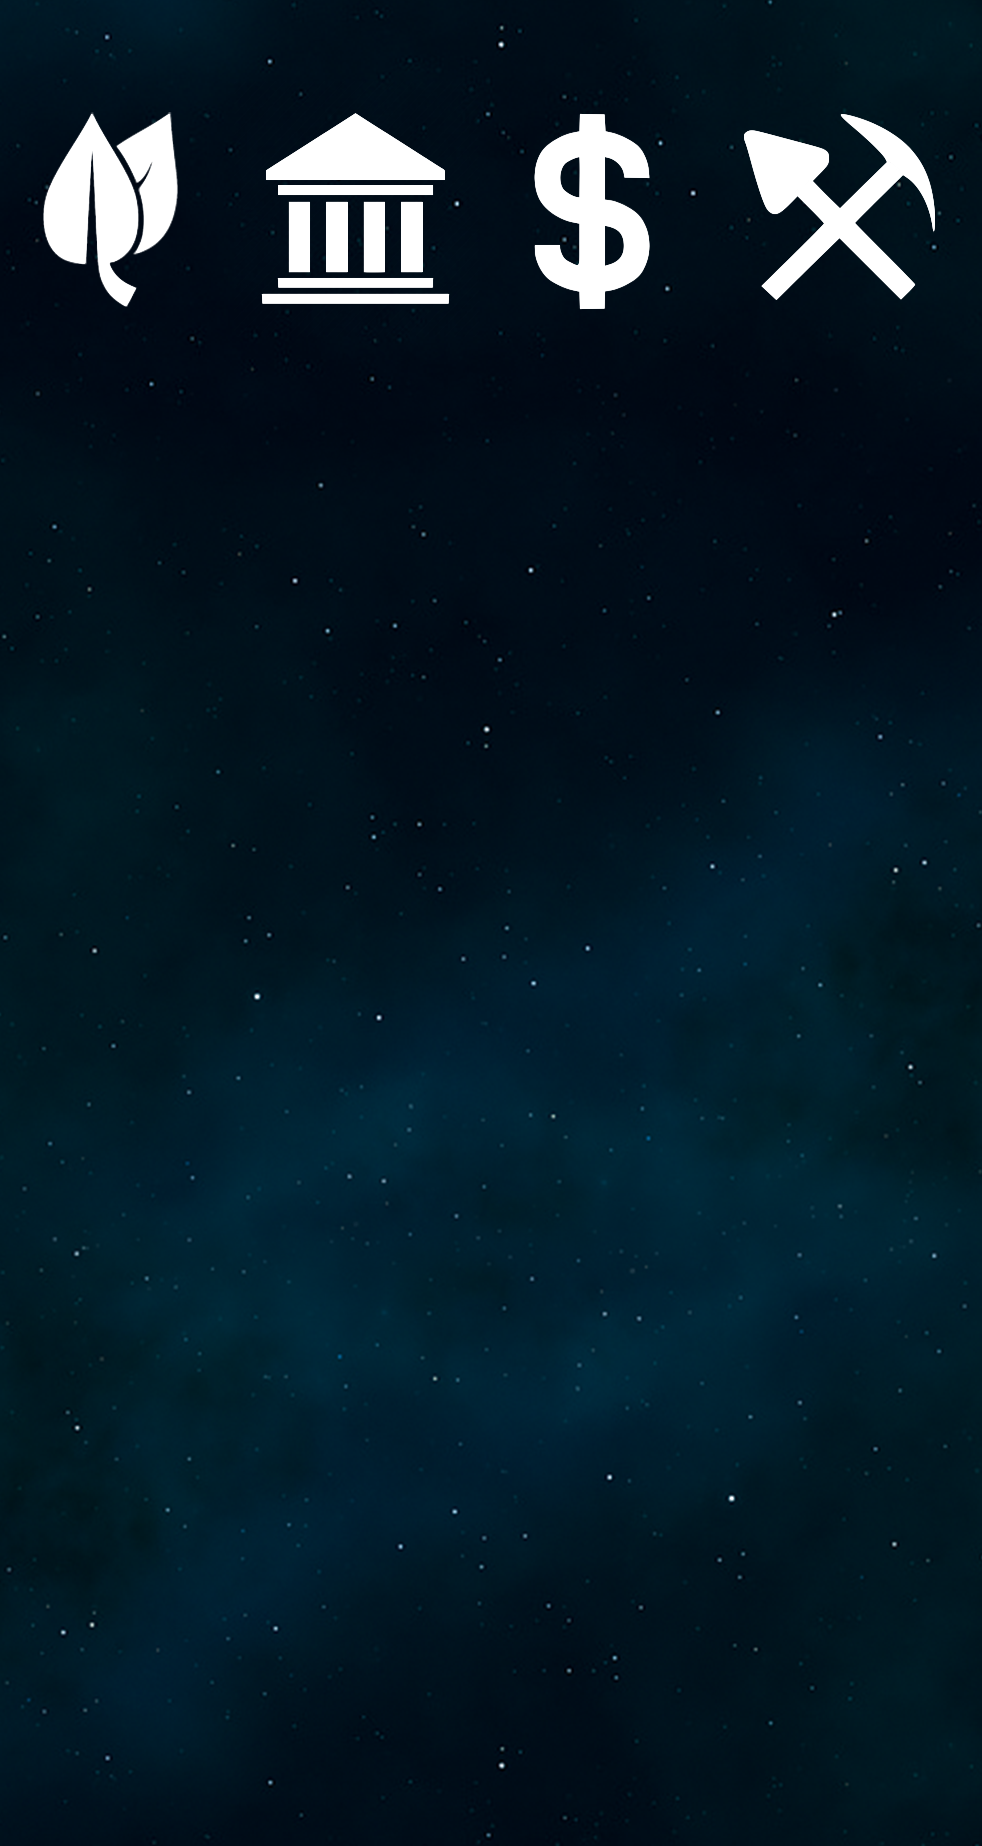
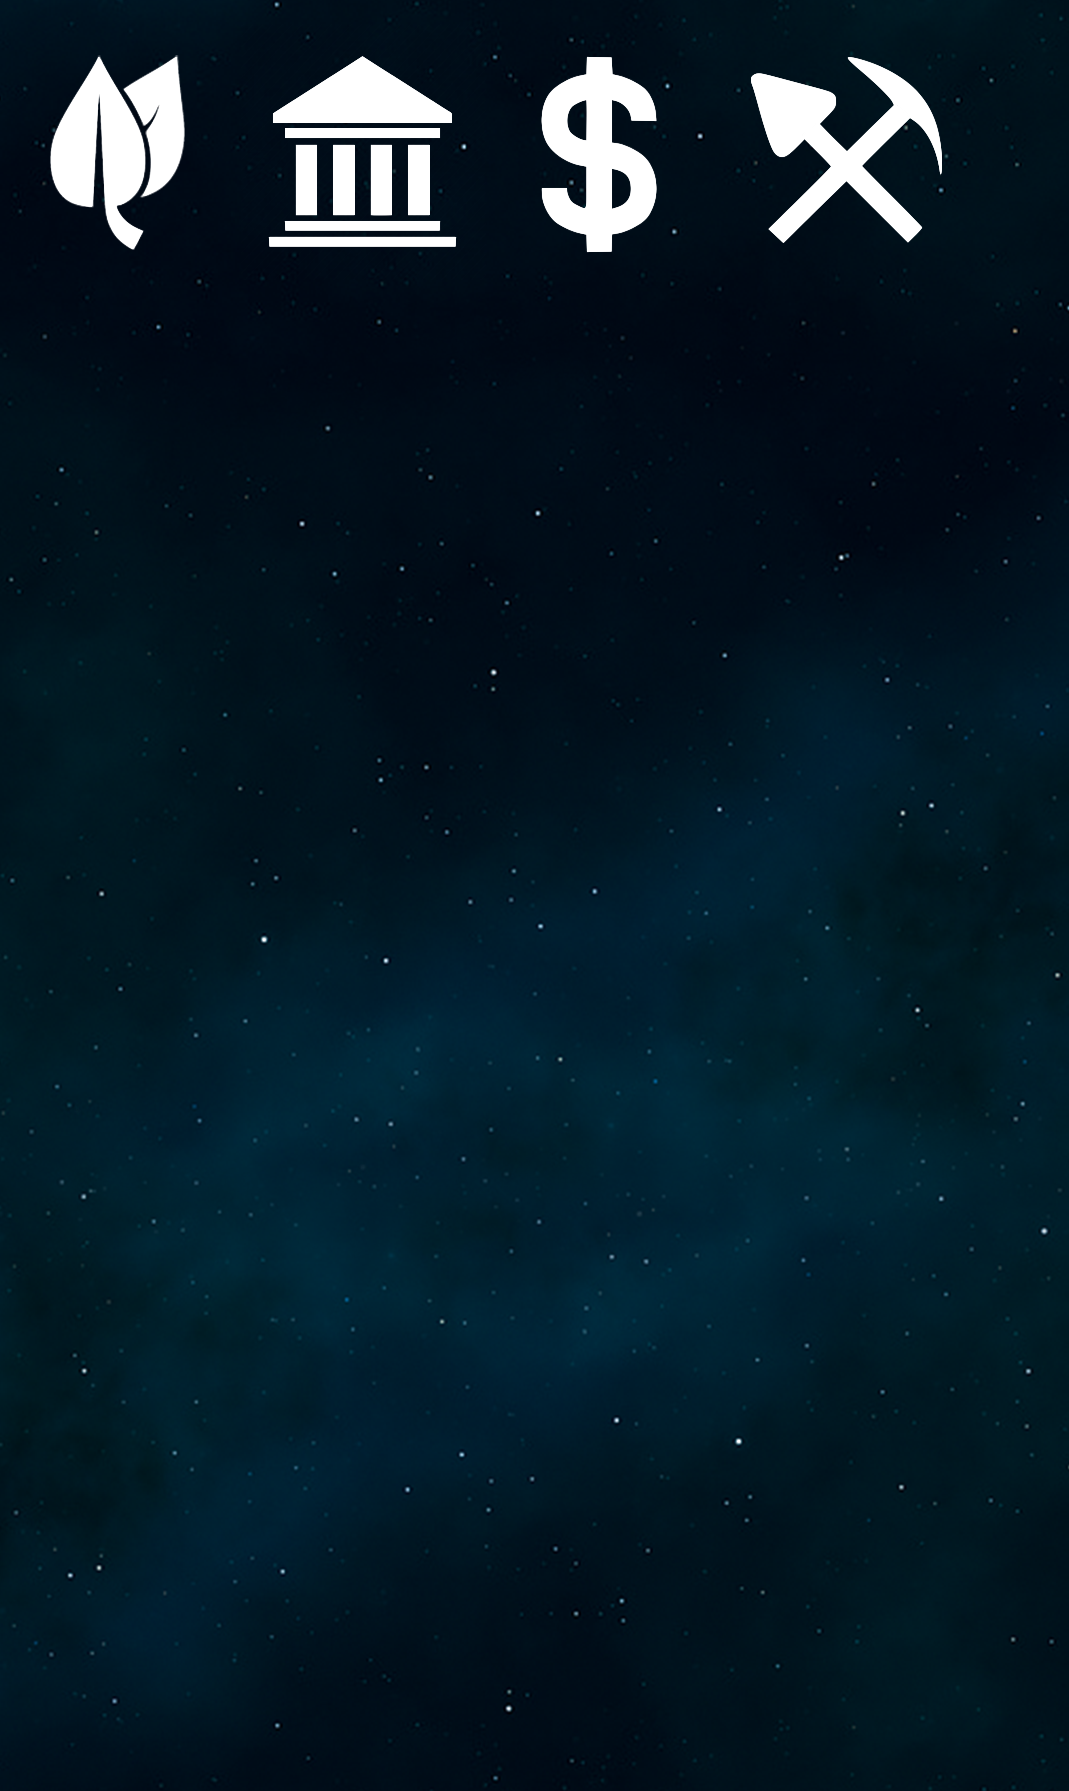
Modify size of background.png and add card.png

diff --git a/js/main.js b/js/main.js
@@ -4,7 +4,7 @@ class playGame extends Phaser.Scene {
     }
 
     preload() {
-        this.load.image("dog", "./assets/images/dog.png");
+        this.load.image("card", "./assets/images/card.png");
         this.load.image("earth", "./assets/images/earth.png");
         this.load.image("timeline", "./assets/images/timeline.png");
         this.load.image("background", "./assets/images/background.png");
@@ -22,7 +22,7 @@ class playGame extends Phaser.Scene {
         this.earth = this.add.image(game.config.width / 2 , this.canvasgame.height / 2, "earth");
         this.earth.displayWidth = this.canvasgame.width * 0.8;
         this.earth.displayHeight = this.earth.displayWidth;
-        this.player = this.add.image(game.config.width / 2, this.canvasgame.height / 2, "dog").setInteractive();
+        this.card = this.add.image(game.config.width / 2, this.canvasgame.height, "card").setInteractive();
         this.timeline = this.add.image(game.config.width / 2, this.canvasgame.height - 150, "timeline");
 
         this.star = this.add.image(150, this.canvasgame.height - 160, "star").setScale(.25);
@@ -46,21 +46,21 @@ class playGame extends Phaser.Scene {
         if(swipeMagnitude > 20 && swipeTime < 1000 && (Math.abs(swipeNormal.y) > 0.8 || Math.abs(swipeNormal.x) > 0.8)) {
             if(swipeNormal.x > 0.8) {
                 // right
-                $(this.player).animate({x: this.canvasgame.width, speed: "slow"});
+                $(this.card).animate({x: this.canvasgame.width, speed: "slow"});
                 this.moveStar();
             }
             if(swipeNormal.x < -0.8) {
                 // left
-                $(this.player).animate({x: 0});
+                $(this.card).animate({x: 0});
                 this.moveStar();
             }
             if(swipeNormal.y > 0.8) {
                 // down
-                $(this.player).animate({y: this.canvasgame.height / 2});
+                $(this.card).animate({y: this.canvasgame.height});
             }
             if(swipeNormal.y < -0.8) {
                 // up
-                $(this.player).animate({y: 0});
+                $(this.card).animate({y: this.canvasgame.height / 2});
             }
         }
     }
